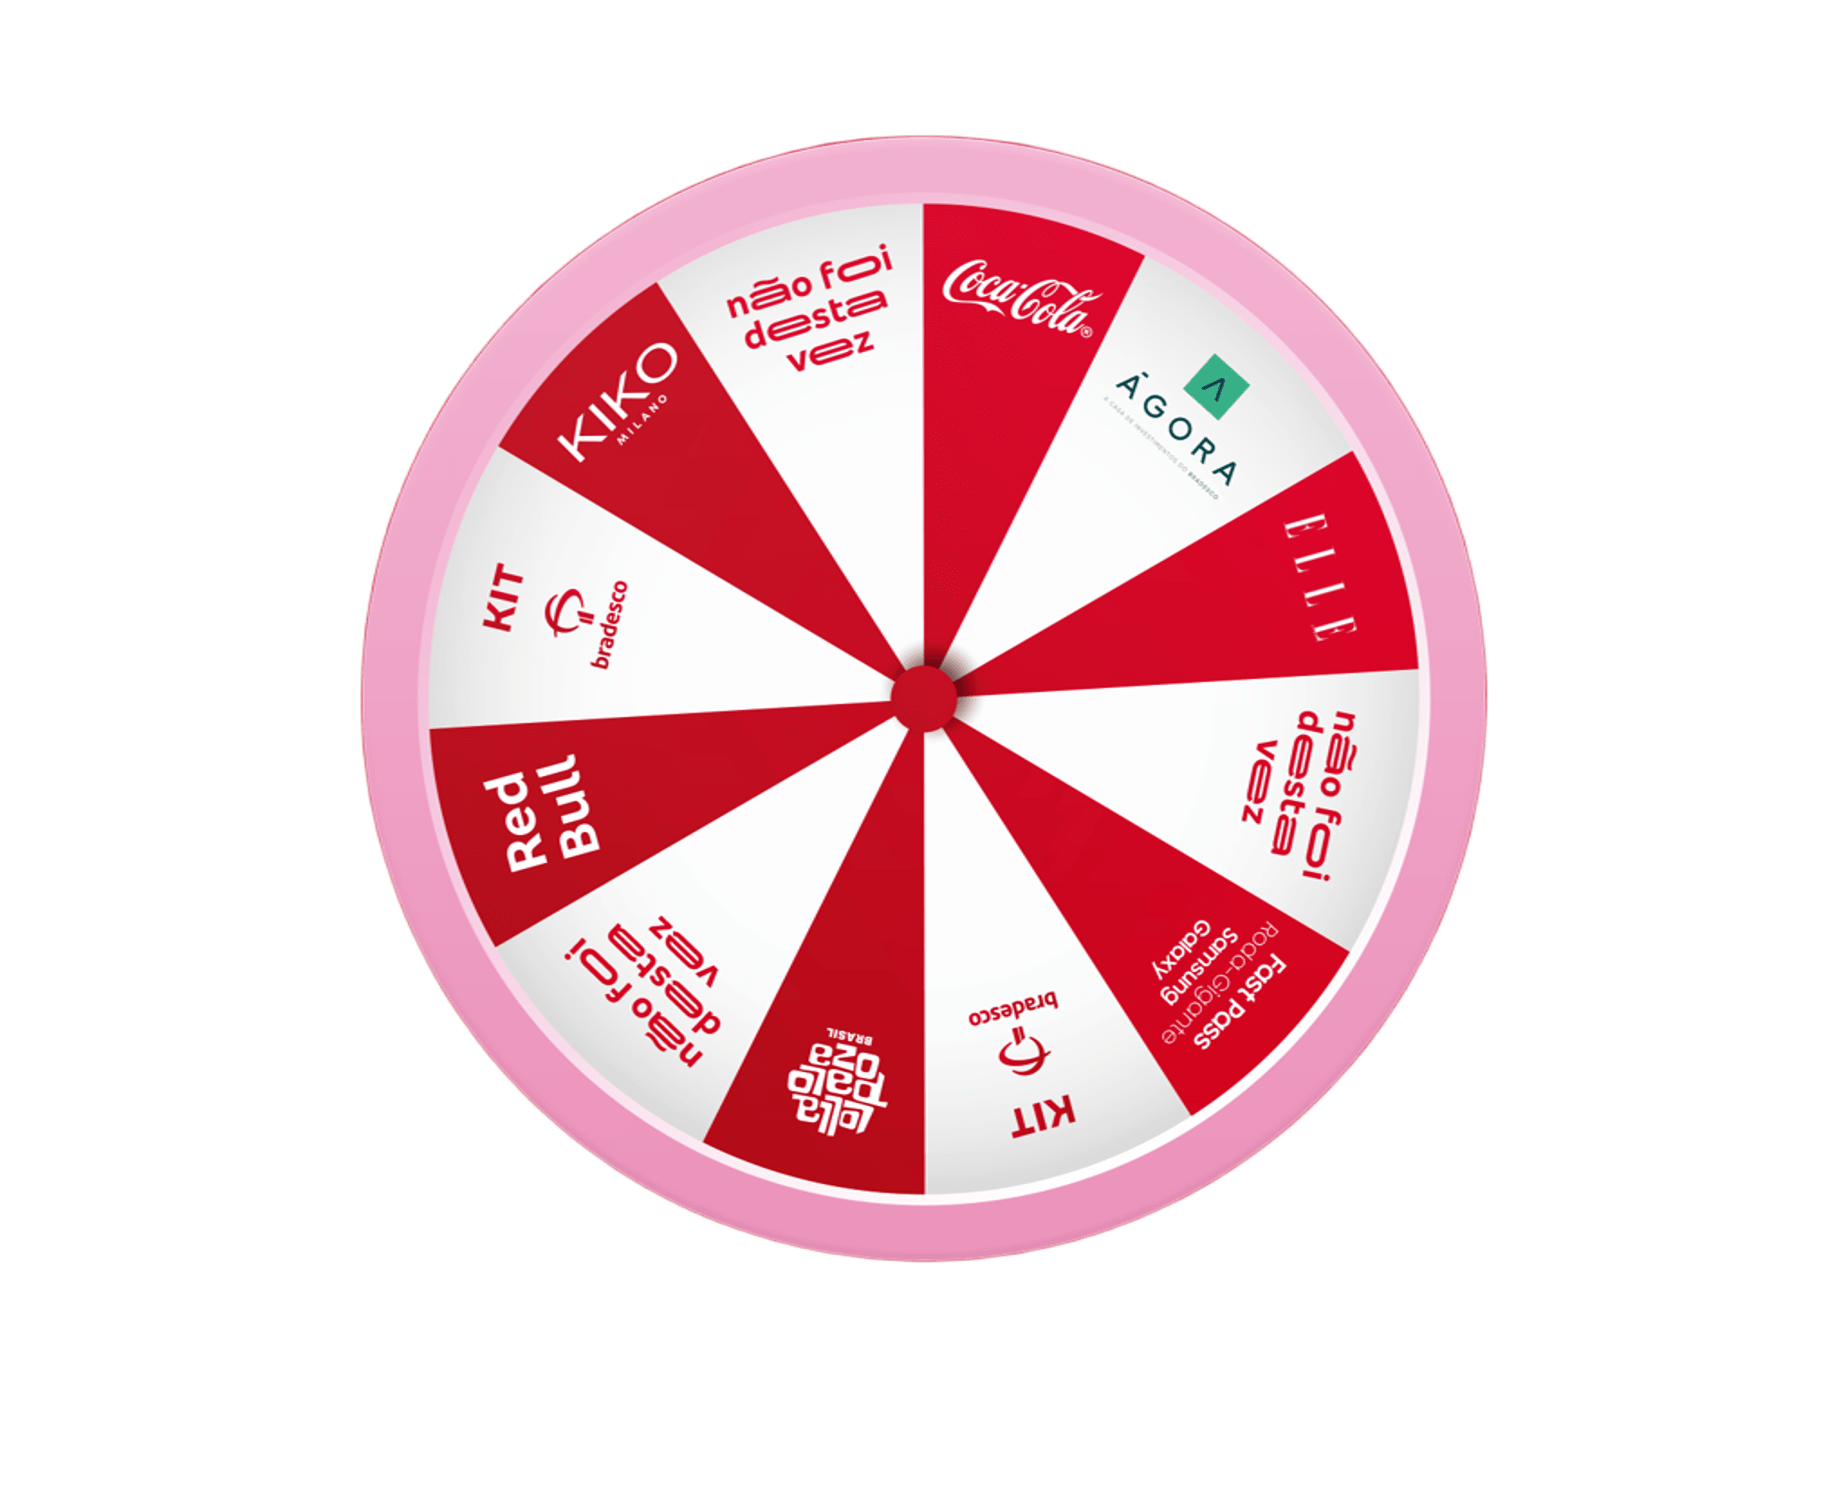
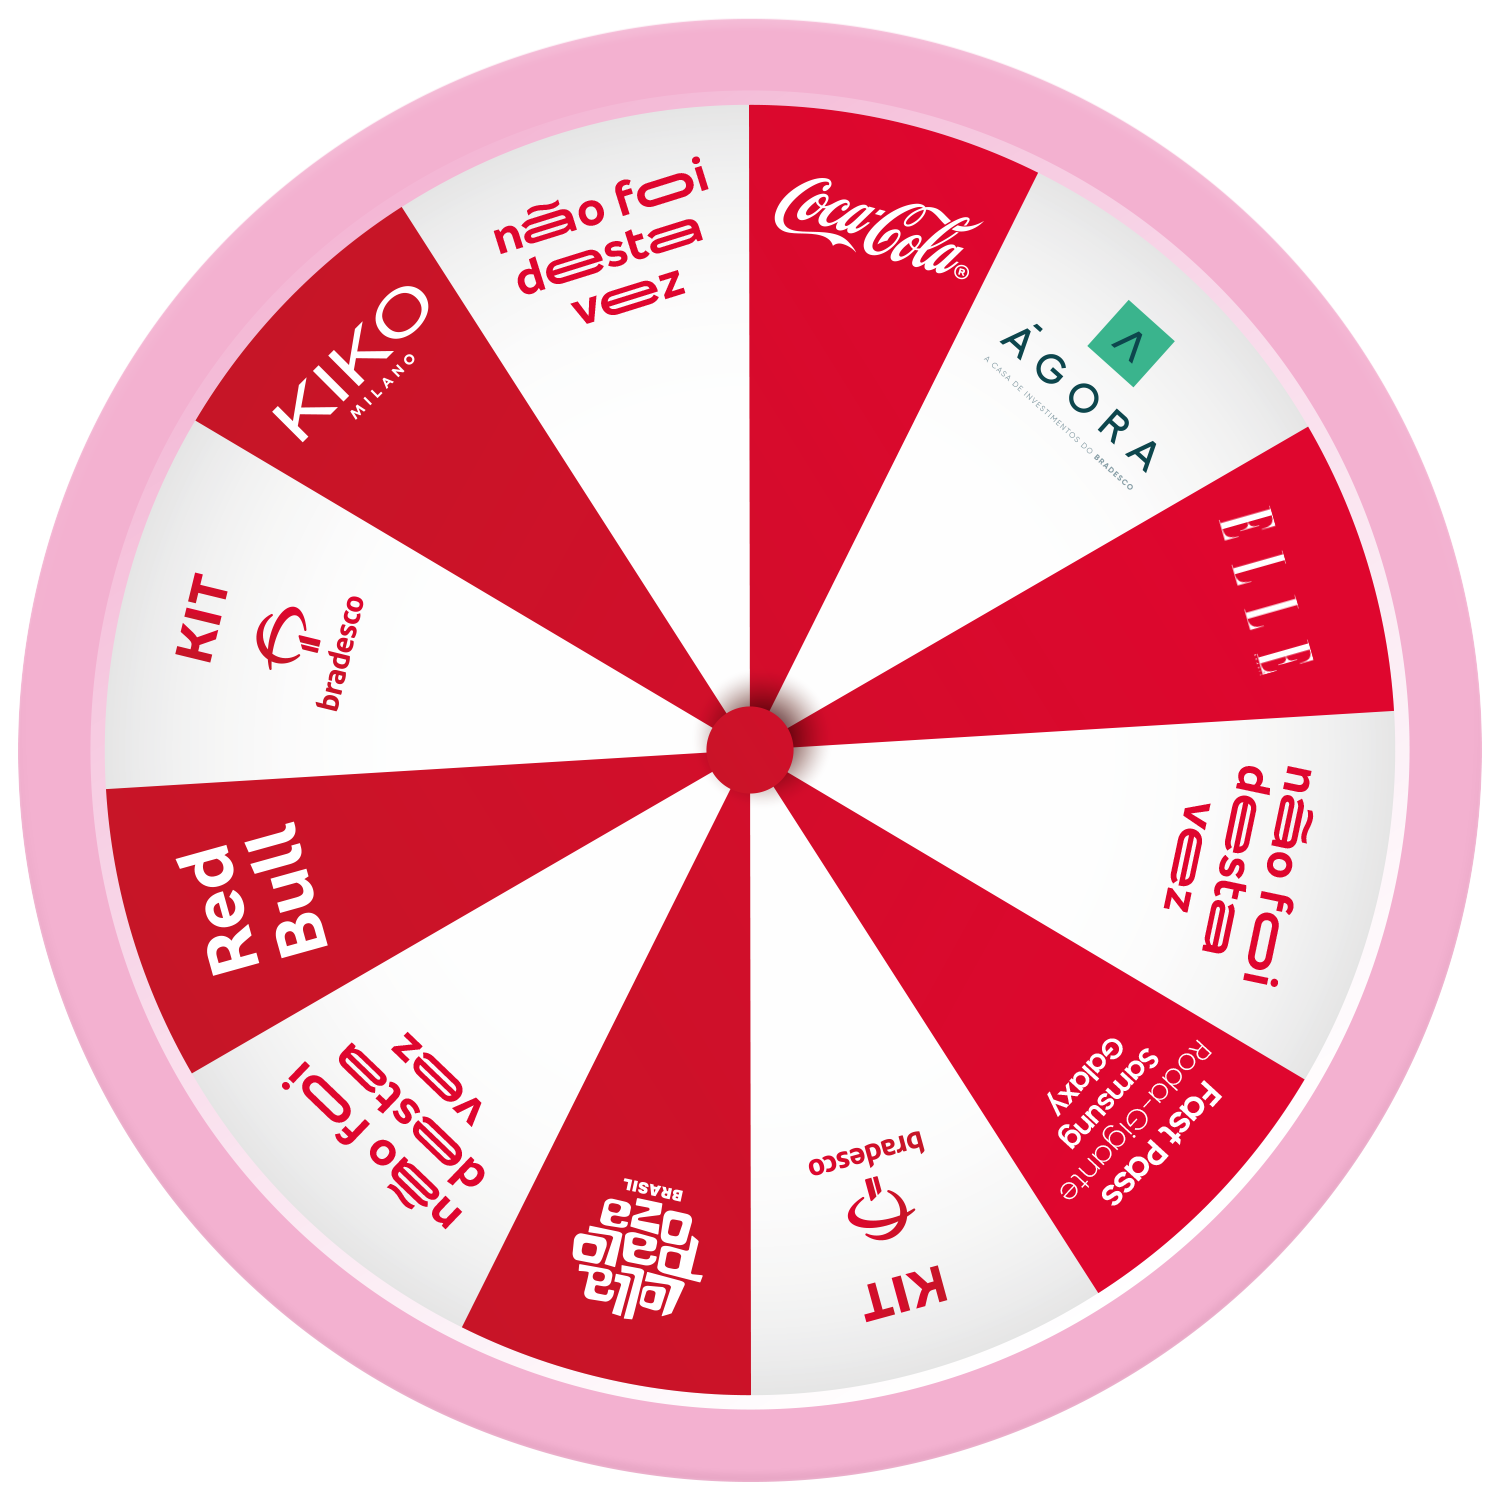
ajustes nas roletas

diff --git a/src/pages/RouletteScreen.tsx b/src/pages/RouletteScreen.tsx
@@ -47,9 +47,9 @@ const RoletaScreen: React.FC = () => {
       
         // Encontrar o índice do prêmio com base no GiftId
         const prizeIndex = prizeList.findIndex(
-          (prizeItem) => prizeItem.id === prize.GiftId
+          (prizeItem) => prizeItem.name.toLowerCase() === prize.GiftName.toLowerCase()
         );
-      
+        
         if (prizeIndex === -1) {
           console.error("❌ Prêmio não encontrado na lista!");
           setIsSpinning(false);
@@ -57,15 +57,16 @@ const RoletaScreen: React.FC = () => {
         }
         console.log(prizeList.length)
       
-        // Calcular o ângulo para o prêmio sorteado
-        const anglePerPrize = 360 / prizeList.length; // Divide a roleta igualmente entre os prêmios
-        const prizeAngle = prizeIndex * anglePerPrize + anglePerPrize / 2; // Meio do prêmio
-      
-        // Número de voltas extras
-        const extraRotations = 5; // O número de voltas que a roleta deve fazer antes de parar
-        const targetRotation = 360 * extraRotations + prizeAngle; // Gira 5 voltas completas + o ângulo do prêmio
-      
-        setRotation(targetRotation); // Atualiza a rotação da roleta
+        const anglePerPrize = 360 / prizeList.length;
+        const prizeAngle = prizeIndex * anglePerPrize;
+        const offsetToCenter = anglePerPrize / 2;
+        
+        const extraRotations = 5;
+        const targetRotation = 360 * extraRotations - (prizeAngle + offsetToCenter);
+        
+        setRotation(targetRotation);
+        
+
       
         setTimeout(() => {
           setIsSpinning(false); // Finaliza o giro após 5 segundos
@@ -107,8 +108,8 @@ const RoletaScreen: React.FC = () => {
           style={{
             transform: `rotate(${rotation}deg)`,
             transition: isSpinning ? "transform 3s ease-out" : "none",
-            width: "80vh",
-            height: "45vh",
+            width: "39vh",
+            height: "39vh",
             // border:"solid 9px yellow"
           }}
         />

diff --git a/src/data/prizes.ts b/src/data/prizes.ts
@@ -11,25 +11,36 @@ import lolla from "/img/roleta/premios/lolla.png";
 import redbull from "/img/roleta/premios/redbull.png";
 
 export const prizesRoleta = [
-  { id:1,name: "Não Foi dessa Vez", image: naofoi },
   { id:3,name: "COCA COLA", image: coca },
-  { id:4,name: "KIKO", image: kiko },
-  {id:5, name: "RED BULL", image: redbull },
+  { id:8, name: "SHOULDER", image: agora },
   { id:6,name: "ELLE", image: elle },
-  { id:9,name: "LOUNGE", image: lolla },
-  {id:8, name: "SHOULDER", image: agora },
-  {id:7, name: "KIT 2", image: kit2 },
+  { id:1,name: "Não Foi dessa Vez", image: naofoi },
   { id:2,name: "SAMSUNG", image: fastpass },
+  { id:7, name: "KIT 2", image: kit2 },
+  { id:9,name: "LOUNGE", image: lolla },
+  { id:1,name: "Não Foi dessa Vez", image: naofoi },
+  { id:5, name: "RED BULL", image: redbull },
+  { id:7, name: "KIT 2", image: kit2 },
+  { id:4,name: "KIKO", image: kiko },
+  { id:1,name: "Não Foi dessa Vez", image: naofoi },
 ];
 
+
 export const prizesLoudge = [
+  { id:10, name: "KIT 1", image: kit1 },
   { id:1,name: "Não Foi dessa Vez", image: naofoi },
   { id:3,name: "COCA COLA", image: coca },
-  {id:4, name: "KIKO", image: kiko },
+  { id:1,name: "Não Foi dessa Vez", image: naofoi },
+  { id:4, name: "KIKO", image: kiko },
+  { id:1,name: "Não Foi dessa Vez", image: naofoi },
+  { id:10, name: "KIT 1", image: kit1 },
+  { id:1,name: "Não Foi dessa Vez", image: naofoi },
   { id:6,name: "ELLE", image: elle },
-  {id:10, name: "KIT 1", image: kit1 },
+  { id:1,name: "Não Foi dessa Vez", image: naofoi },
   { id:2,name: "SAMSUNG", image: fastpass },
+  { id:1,name: "Não Foi dessa Vez", image: naofoi },
 ];
+
 // Descrições dos prêmios
 export const prizeDescriptions = {
   "Não Foi dessa Vez": "Não foi dessa vez... Tente novamente mais tarde e não desista!",

diff --git a/src/styles/RouletteScreen.css b/src/styles/RouletteScreen.css
@@ -28,7 +28,6 @@ margin: 0 ;
    
     position: absolute;
     top: 0;
-    left: 0;
     z-index: 1;
     max-width: 100%; /* Garante que a imagem não ultrapasse o limite do contêiner */
     max-height: 100%; /* Garante que a imagem não ultrapasse o limite do contêiner */

diff --git a/src/hooks/useFetchPrize.ts b/src/hooks/useFetchPrize.ts
@@ -39,7 +39,7 @@ const useFetchPrize = () => {
       }
 
       const data = await response.json();
-      return data.GiftName || null;
+      return data
      
     } catch (error) {
       console.error("❌ Erro ao buscar prêmio:", error);

diff --git a/src/data/imageData.ts b/src/data/imageData.ts
@@ -18,6 +18,7 @@ export const images: ImageItem[] = [
 ];
 
 
+
 //           Versões da cliente              \\
 
 
